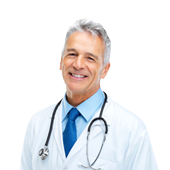
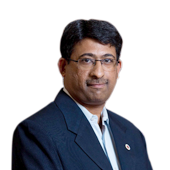
photos added

diff --git a/index.html b/index.html
@@ -258,7 +258,7 @@
                                                     </div>
                                                 </div>
                                             </div>
-                                        </li> -->
+                                        </li>
                                         <li class="hide-on-desktop-menu">
                                             <a href="#">Pages</a>
                                             <ul>
@@ -287,7 +287,7 @@
                                                     <a href="coming-soon.html">Coming Soon</a>
                                                 </li>
                                             </ul>
-                                        </li>
+                                        </li> -->
                                         <li>
                                             <a href="cloud-clinic.html">Cloud Clinic</a>
                                         </li>
@@ -564,7 +564,7 @@ Become Stress Manager</p>
                     data-r-extra-large-dots="false">
                     <div class="item">
                         <div class="testmonial-box-layout2">
-                            <h4 class="item-title">Josef Ardogan <span>/ CEO Artland</span></h4>
+                            <!-- <h4 class="item-title">Josef Ardogan <span>/ CEO Artland</span></h4>
                             <ul class="rating">
                                 <li>
                                     <i class="fa fa-star" aria-hidden="true"></i>
@@ -580,13 +580,15 @@ Become Stress Manager</p>
                                 </li>
                                 <li>
                                     <i class="fa fa-star" aria-hidden="true"></i>
-                                </li>
-                            </ul>
-                            <p>"Eodem modo typi, qui nunc nobis videntur parum clar fiant sollemnes in futurum. Lorem
-                                ipsum dolor sit amet tetuer adipiscing elit, sed diam nonu."</p>
+                                </li> 
+                            </ul> -->
+                            <p>Today learned about good listening 
+                                Music effects on listening effects 
+                                And breathing exercise, meditation 
+                                Thank you Doctor 👍🙏😊</p>
                         </div>
                         <div class="testmonial-box-layout2">
-                            <h4 class="item-title">Josef Ardogan <span>/ CEO Artland</span></h4>
+                            <!-- <h4 class="item-title">Josef Ardogan <span>/ CEO Artland</span></h4>
                             <ul class="rating">
                                 <li>
                                     <i class="fa fa-star" aria-hidden="true"></i>
@@ -603,54 +605,44 @@ Become Stress Manager</p>
                                 <li>
                                     <i class="fa fa-star" aria-hidden="true"></i>
                                 </li>
-                            </ul>
-                            <p>"Eodem modo typi, qui nunc nobis videntur parum clar fiant sollemnes in futurum."</p>
+                            </ul> -->
+                            <p>Great <br> 
+                                Today did 4 hours 
+                                With various points of self ownership with examples 
+                                And
+                                Nadi shodhan learning 
+                                Thank you Dr Sucheta 😊🙏</p>
+                        </div>
+                        <div class="testmonial-box-layout2">
+                            <!-- <h4 class="item-title">Josef Ardogan <span>/ CEO Artland</span></h4>
+                            <ul class="rating">
+                                <li>
+                                    <i class="fa fa-star" aria-hidden="true"></i>
+                                </li>
+                                <li>
+                                    <i class="fa fa-star" aria-hidden="true"></i>
+                                </li>
+                                <li>
+                                    <i class="fa fa-star" aria-hidden="true"></i>
+                                </li>
+                                <li>
+                                    <i class="fa fa-star" aria-hidden="true"></i>
+                                </li>
+                                <li>
+                                    <i class="fa fa-star" aria-hidden="true"></i>
+                                </li>
+                            </ul> -->
+                            <p>Good session of ujjayi breathing 
+                                Ha technique 
+                                And mudra
+                                Feeling relaxed 
+                                Thank you Dr Sucheta 😊🙏</p>
                         </div>
                     </div>
+
                     <div class="item">
-                        <div class="testmonial-box-layout2">
-                            <h4 class="item-title">Josef Ardogan <span>/ CEO Artland</span></h4>
-                            <ul class="rating">
-                                <li>
-                                    <i class="fa fa-star" aria-hidden="true"></i>
-                                </li>
-                                <li>
-                                    <i class="fa fa-star" aria-hidden="true"></i>
-                                </li>
-                                <li>
-                                    <i class="fa fa-star" aria-hidden="true"></i>
-                                </li>
-                                <li>
-                                    <i class="fa fa-star" aria-hidden="true"></i>
-                                </li>
-                                <li>
-                                    <i class="fa fa-star" aria-hidden="true"></i>
-                                </li>
-                            </ul>
-                            <p>"Eodem modo typi, qui nunc nobis videntur parum clar fiant sollemnes in futurum. Lorem
-                                ipsum dolor sit amet tetuer adipiscing elit, sed diam nonu."</p>
-                        </div>
-                        <div class="testmonial-box-layout2">
-                            <h4 class="item-title">Josef Ardogan <span>/ CEO Artland</span></h4>
-                            <ul class="rating">
-                                <li>
-                                    <i class="fa fa-star" aria-hidden="true"></i>
-                                </li>
-                                <li>
-                                    <i class="fa fa-star" aria-hidden="true"></i>
-                                </li>
-                                <li>
-                                    <i class="fa fa-star" aria-hidden="true"></i>
-                                </li>
-                                <li>
-                                    <i class="fa fa-star" aria-hidden="true"></i>
-                                </li>
-                                <li>
-                                    <i class="fa fa-star" aria-hidden="true"></i>
-                                </li>
-                            </ul>
-                            <p>"Eodem modo typi, qui nunc nobis videntur parum clar fiant sollemnes in futurum."</p>
-                        </div>
+                        
+                        
                     </div>
                 </div>
             </div>

diff --git a/siddhart-unnithan.html b/siddhart-unnithan.html
@@ -254,7 +254,7 @@
                     </div>
                     <div class="order-xl-1 order-lg-1 sidebar-widget-area sidebar-break-md col-xl-3 col-lg-4 col-md-12 col-12">
                         <div class="widget widget-about-team">
-                            <img src="img/team/team20.png" class="img-fluid" alt="team">
+                            <img src="img/team/SIDDHARTH.png" class="img-fluid" alt="team">
                             <div class="item-content">
                                 <h3 class="item-title">SIDDHARTH UNNITHAN</h3>
                                 <span class="item-designation">MBA, BA . BUSINESS & FINANCE</span>

diff --git a/sucheta-atitkar.html b/sucheta-atitkar.html
@@ -260,7 +260,7 @@
                     </div>
                     <div class="order-xl-1 order-lg-1 sidebar-widget-area sidebar-break-md col-xl-4 col-lg-4 col-md-12 col-12">
                         <div class="widget widget-about-team">
-                            <img src="img/team/team20.png" class="img-fluid" alt="team">
+                            <img src="img/team/Sucheta.png" class="img-fluid" alt="team">
                             <div class="item-content">
                                 <h3 class="item-title">Dr. Sucheta Atitkar Unnithan</h3>
                                 <span class="item-designation">MD, PhD, MBA</span>

diff --git a/satyajeet-pangu.html b/satyajeet-pangu.html
@@ -247,7 +247,7 @@
                     </div>
                     <div class="order-xl-1 order-lg-1 sidebar-widget-area sidebar-break-md col-xl-4 col-lg-4 col-md-12 col-12">
                         <div class="widget widget-about-team">
-                            <img src="img/team/team20.png" class="img-fluid" alt="team">
+                            <img src="img/team/Satyajeet.png" class="img-fluid" alt="team">
                             <div class="item-content">
                                 <h3 class="item-title">Satyajeet Pangu</h3>
                                 <span class="item-designation">MTech</span>
